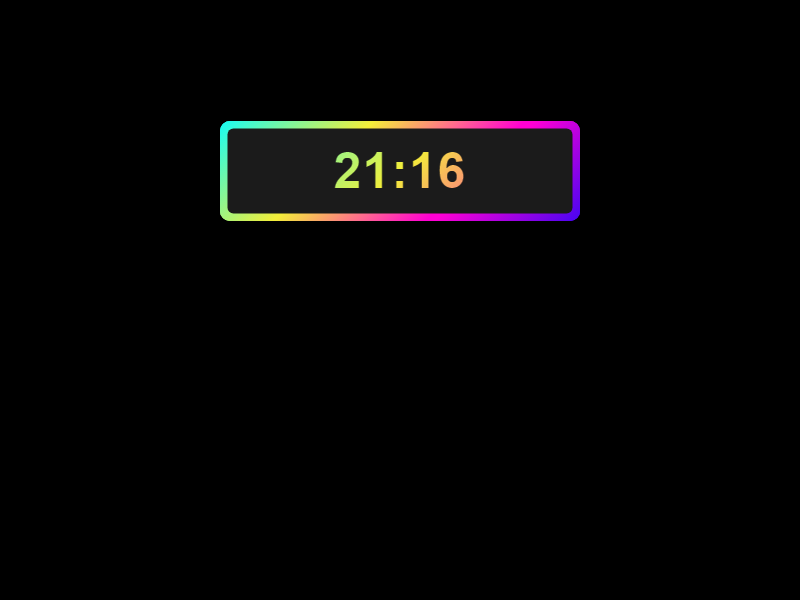
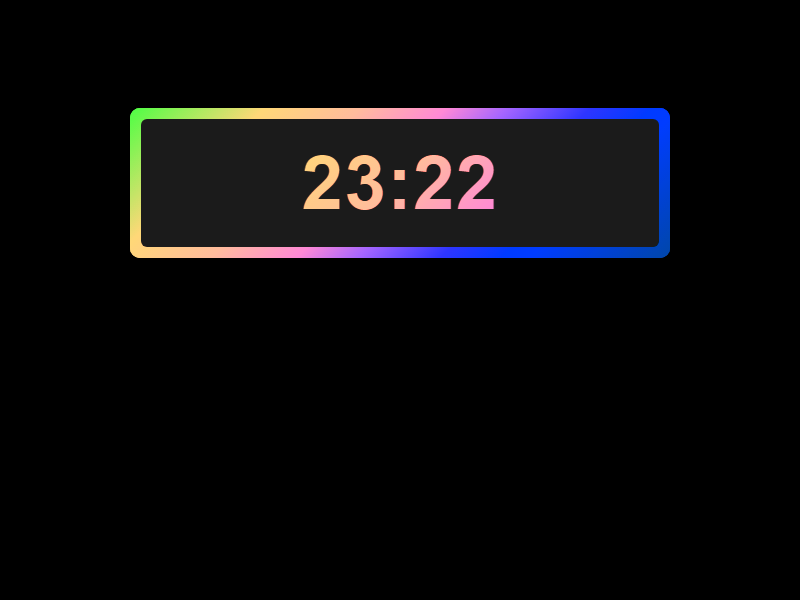
make wallpaper colour randomly cange with every change of the clock

Changed region(s): [[0.1562, 0.18, 0.8438, 0.45]]

diff --git a/index.html b/index.html
@@ -21,8 +21,8 @@
         }
         
         .container {
-            height: 100px;
-            width: 360px;
+            height: 150px;
+            width: 540px;
             cursor: default;
             border-radius: 10px;
             background: linear-gradient(135deg, #14ffe9, #ffeb3b, #ff00e0, rgb(56, 9, 244));
@@ -45,16 +45,16 @@
             transform: translate(-50%, -50%);
             background: #1b1b1b;
             border-radius: 6px;
-            height: 85px;
-            width: 345px;
+            height: 128px;
+            width: 518px;
             text-align: center;
             z-index: 999;
         }
         
         .container .display #time {
-            line-height: 85px;
+            line-height: 128px;
             color: #fff;
-            font-size: 50px;
+            font-size: 75px;
             font-weight: 600;
             letter-spacing: 1px;
             background: linear-gradient(135deg, #14ffe9, #ffeb3b, #ff00e0);
@@ -90,28 +90,50 @@
     <script>
         if (typeof document !== 'undefined') {
             let clock = document.querySelector('#time')
+            let container = document.querySelector('.container')
         
-        let now = new Date();
-        
-        function hours() {
-        h = now.getHours()
-            if (h < 10) {
-               return "0" + h;
-            } else {
-                return h
-            };
-        };
-        
-        function minutes() {
-            m = now.getMinutes()
-                if (m < 10) {
-                   return "0" + m;
-                } else {
-                    return m
+            function updateClock() {
+                let now = new Date();
+                
+                // Update time
+                function hours() {
+                    h = now.getHours()
+                    if (h < 10) {
+                       return "0" + h;
+                    } else {
+                        return h
+                    };
                 };
-            };
-        
-        clock.innerHTML = ( hours() + ":" + minutes());
+                
+                function minutes() {
+                    m = now.getMinutes()
+                    if (m < 10) {
+                       return "0" + m;
+                    } else {
+                        return m
+                    };
+                };
+                
+                // For wallpaper capture, we'll set a data attribute instead of directly setting the filter
+                // This won't affect the CSS animation but will be used when capturing the image
+                let minute = now.getMinutes();
+                let second = now.getSeconds();
+                let hueRotate = (minute * 6 + second * 0.1) % 360;
+                container.dataset.hueRotate = hueRotate;
+                
+                // Do not set filter directly as it overrides the CSS animation
+                // container.style.filter = `hue-rotate(${hueRotate}deg)`;
+                
+                clock.innerHTML = (hours() + ":" + minutes());
+            }
+            
+            // Run immediately
+            updateClock();
+            
+            // Update every second if in browser (not needed for wallpaper image capture)
+            if (typeof window !== 'undefined') {
+                setInterval(updateClock, 1000);
+            }
         }
     </script>
     <script type="module" src="/index.js"></script>>

diff --git a/index.js b/index.js
@@ -1,26 +1,43 @@
- import {getWallpaper, setWallpaper} from 'wallpaper';
+import {getWallpaper, setWallpaper} from 'wallpaper';
 import nodeHtmlToImage from 'node-html-to-image'
 import fs from "fs";
 import * as cron from 'node-cron'
 
-const html = fs.readFileSync("./index.html", (err, html) => {
-    if(err) {
-        throw err
-    }
-    return html;
-})
+// Read the HTML template once
+let htmlTemplate = fs.readFileSync("./index.html", "utf-8");
 
 cron.schedule("* * * * *", () => {
+    // Get current time for accurate clock
+    const now = new Date();
+    const hours = now.getHours().toString().padStart(2, '0');
+    const minutes = now.getMinutes().toString().padStart(2, '0');
+    
+    // Generate a random rotation for the gradient (0-360 degrees)
+    const randomRotation = Math.floor(Math.random() * 360);
+    
+    // Inject custom styles for a unique snapshot
+    const modifiedHtml = htmlTemplate.replace(
+        '<style>',
+        `<style>
+        /* Injected style for unique snapshot */
+        .container {
+            filter: hue-rotate(${randomRotation}deg) !important;
+        }`
+    );
+
     nodeHtmlToImage({
         output: "./image.png",
-        html: html.toString("utf-8")
+        html: modifiedHtml,
+        content: {
+            currentTime: `${hours}:${minutes}`
+        }
     }).then(() => {
-        console.log("Image created successfully")
+        console.log(`Image created successfully - rotation: ${randomRotation}°`);
         setWallpaper("./image.png").then(err => {
             if(err){
                 throw err;
             }
-            console.log("Wallpaper set successfully")
-        }) 
+            console.log("Wallpaper set successfully");
+        });
     });
-})
+});

diff --git a/README.md b/README.md
@@ -1,33 +1,30 @@
-![](/clock.png)
-# live-wallpaper-clock
+# Live Wallpaper Clock
 
+![Live Clock Wallpaper Screenshot](/clock.png "Live Clock Wallpaper")
 
 Clock wallpaper that updates every minute.
 Runs at system startup with no command prompt visible. Tested with Windows 10 and vs Code.
 
-### Steps to install and make it run seamlessly.  
+## Steps to install and make it run seamlessly
+
 | Step | Action | Links |
 |---|---|---|
-| 1 | Make sure you have node.js downloaded and installed | [Download node.js](https://nodejs.org/en/download) | 
+| 1 | Make sure you have node.js downloaded and installed | [Download node.js](https://nodejs.org/en/download) |
 | 2 | Download or clone my repository and save it on your machine| |
-| 3 | Download NirCmd (hides CMD window)  | [Download NirCmd](https://www.nirsoft.net/utils/nircmd.html), <br> [ Slightly better explanation how to install ](https://whatsoftware.com/hidden-start-runs-batch-files-silently-without-flickering-console/) |
-| 4 | Create .bat file using note pad. Have included mine as an examples or you can modify them as you like. First one has to point to the second one and all the paths have to be spot on.  | [1st .bat](/start-live-clock-wallpaper.bat), <br> [2nd .bat](/live-clock-wallpaper.bat) |
-| 5 | Once you have your .bat files, right click on the first one and select 'create shortcut' |   |
-| 6 | Open run (press: Windows key + r) and open: shell:startup. Copy your shortcut file in startup folder |  |
-| | This stage it should work. Please test it as you go along. You can see in the 2nd .bat the structure of the file path, just by opening/running that file your, wallpaper should work. it might take up to a minute for the time to change as new image is being created only when system clock changes. |  |
+| 3 | Download NirCmd (hides CMD window) | [Download NirCmd](https://www.nirsoft.net/utils/nircmd.html), [Slightly better explanation how to install](https://whatsoftware.com/hidden-start-runs-batch-files-silently-without-flickering-console/) |
+| 4 | Create .bat file using note pad. Have included mine as examples or you can modify them as you like. First one has to point to the second one and all the paths have to be spot on. | [1st .bat](/start-live-clock-wallpaper.bat), [2nd .bat](/live-clock-wallpaper.bat) |
+| 5 | Once you have your .bat files, right click on the first one and select 'create shortcut' | |
+| 6 | Open run (press: Windows key + r) and open: shell:startup. Copy your shortcut file in startup folder | |
+| | This stage it should work. Please test it as you go along. You can see in the 2nd .bat the structure of the file path, just by opening/running that file your, wallpaper should work. it might take up to a minute for the time to change as new image is being created only when system clock changes. | |
 
-### Bugs and future plans.
+## Bugs and future plans
 
 - Border is animated when run normally but for some reason this program always takes a picture with same colours.
 - Once program sets wallpaper image you need to go in to personalize menus and choose a fit. Windows might want to stretch or repeat it.
 
+## Credits
 
+Took most of the inspiration from YouTuber [Daniel Bark](https://www.youtube.com/@danielbark)  
+[His video](https://www.youtube.com/watch?v=pATKLIrf-p0) and [GitHub repository](https://github.com/danba340/wallpaper-clock)
 
-### Credits
-
-Took most of the inspiration from YouTuber [Daniel Bark.](https://www.youtube.com/@danielbark) <br> [His video](https://www.youtube.com/watch?v=pATKLIrf-p0) and  [ GitHub repository ](https://github.com/danba340/wallpaper-clock)
- 
-
- #### Any comments or suggestion feel free to contact me.
-
-
+### Any comments or suggestion feel free to contact me
